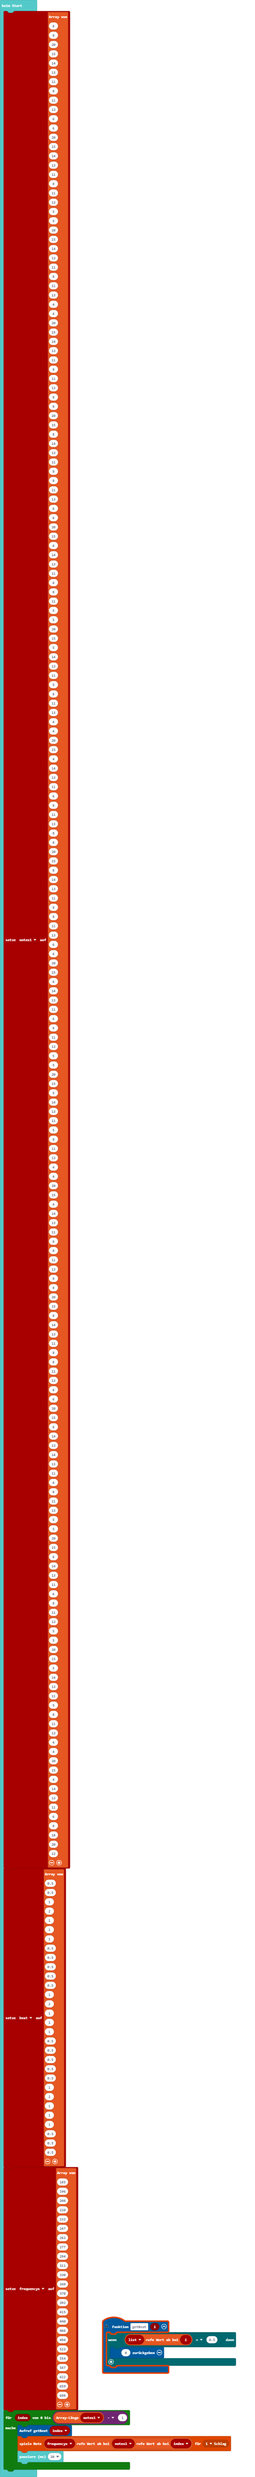
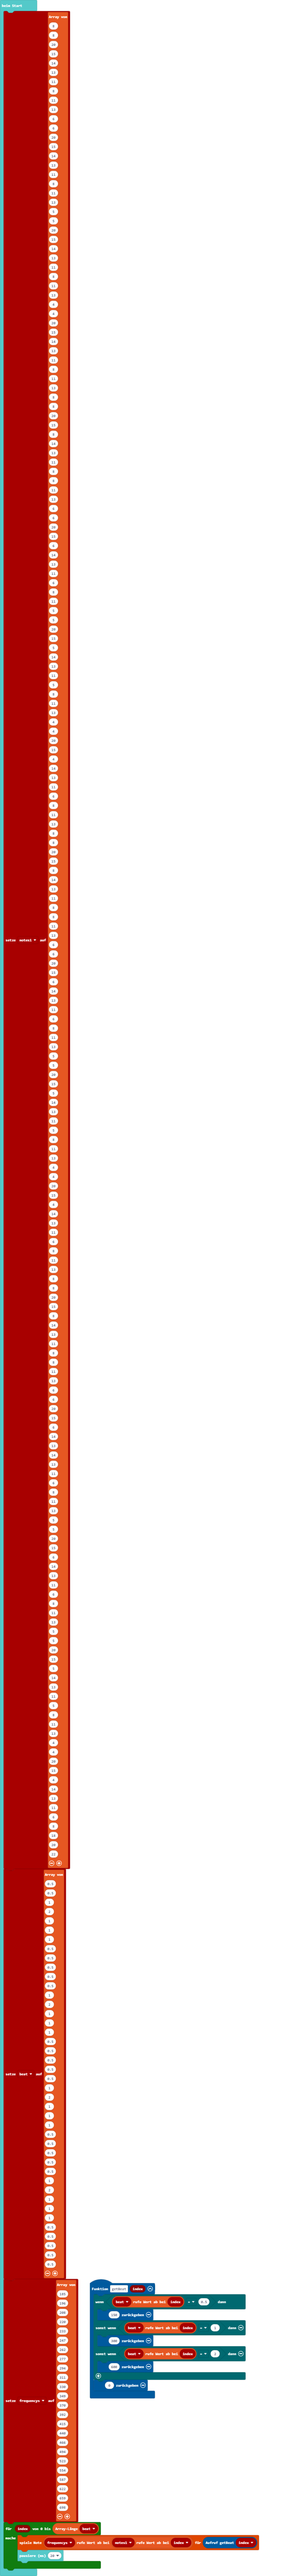
Added first beat times

Changed region(s): [[0.0, 0.0, 0.9256, 1.0]]

diff --git a/main.ts b/main.ts
@@ -1,14 +1,18 @@
-function getBeat (i: number) {
-    let list: number[] = []
-    if (list[i] == 0.5) {
-        return 0
+function getBeat (index: number) {
+    if (beat[index] == 0.5) {
+        return 150
+    } else if (beat[index] == 1) {
+        return 300
+    } else if (beat[index] == 2) {
+        return 600
     }
+    return 0
 }
+let beat: number[] = []
 let notes1 = [8, 8, 20, 15, 14, 13, 11, 8, 11, 13, 6, 6, 20, 15, 14, 13, 11, 8, 11, 13, 5, 5, 20, 15, 14, 13, 11, 8, 11, 13, 4, 4, 20, 15, 14, 13, 11, 8, 11, 13, 8, 8, 20, 15, 8, 14, 13, 11, 8, 8, 11, 13, 6, 6, 20, 15, 6, 14, 13, 11, 6, 8, 11, 5, 5, 20, 15, 5, 14, 13, 11, 5, 8, 11, 13, 4, 4, 20, 15, 4, 14, 13, 11, 6, 8, 11, 13, 8, 8, 20, 15, 8, 14, 13, 11, 8, 8, 11, 13, 6, 6, 20, 15, 6, 14, 13, 11, 6, 8, 11, 13, 5, 5, 20, 15, 5, 14, 13, 11, 5, 8, 11, 13, 4, 4, 20, 15, 4, 14, 13, 11, 6, 8, 11, 13, 8, 8, 20, 15, 8, 14, 13, 11, 8, 8, 11, 13, 6, 6, 20, 15, 6, 14, 13, 14, 13, 11, 6, 8, 11, 13, 5, 5, 20, 15, 6, 14, 13, 11, 6, 8, 11, 13, 5, 5, 20, 15, 5, 14, 13, 11, 5, 8, 11, 13, 4, 4, 20, 15, 4, 14, 13, 11, 6, 8, 18, 20, 22]
-let beat = [0.5, 0.5, 1, 2, 1, 1, 1, 0.5, 0.5, 0.5, 0.5, 0.5, 1, 2, 1, 1, 1, 0.5, 0.5, 0.5, 0.5, 0.5, 1, 2, 1, 1, 1, 0.5, 0.5, 0.5]
+beat = [0.5, 0.5, 1, 2, 1, 1, 1, 0.5, 0.5, 0.5, 0.5, 0.5, 1, 2, 1, 1, 1, 0.5, 0.5, 0.5, 0.5, 0.5, 1, 2, 1, 1, 1, 0.5, 0.5, 0.5, 0.5, 0.5, 1, 2, 1, 1, 1, 0.5, 0.5, 0.5, 0.5, 0.5]
 let frequencys = [185, 196, 208, 220, 233, 247, 262, 277, 294, 311, 330, 349, 370, 392, 415, 440, 466, 494, 523, 554, 587, 622, 659, 698]
-for (let index = 0; index <= notes1.length - 1; index++) {
-    getBeat(index)
-    music.playTone(frequencys[notes1[index]], music.beat(BeatFraction.Whole))
+for (let index = 0; index <= beat.length; index++) {
+    music.playTone(frequencys[notes1[index]], getBeat(index))
     basic.pause(20)
 }
